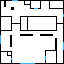
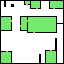
Add greater preset control with wildcard tiles and pattern matching with propagation in output initialization stage. URGENT: Still having issues with even super small propagation (4x4git statuswhen fixing tiles.

diff --git a/world_gen.py b/world_gen.py
@@ -4,6 +4,7 @@ import random
 import copy
 import math
 
+
 class WorldGen:
 
     def __init__(self):
@@ -69,7 +70,7 @@ class WorldGen:
                            for x in mat_in])
         for i in range(len(mat_in)):
             for j in range(len(mat_in[i])):
-                if(mat_in[i][j] == 'D' or mat_in[i][j]=='X'):
+                if(mat_in[i][j] == 'D' or mat_in[i][j] == 'X'):
                     mat_in[i][j] = '•'
 
         return mat_in
@@ -101,16 +102,17 @@ class WorldGen:
                 self.patches[self.patch_index[j]] = j
                 self.freqs[self.patch_index[j]] += 1
 
-        # attempt at reducing the impact of basic patches that repeat often in favor of more complex ones
+        # potential attempt at reducing the impact of basic patches that repeat often in favor of more complex ones
         def patch_entropy(n):
             count = {}
             for i in self.patches[n]:
-                count[i] = count.setdefault(i,0)+1
+                count[i] = count.setdefault(i, 0)+1
             prod = 1
             for i in count.keys():
                 prod *= count[i]
             return math.log2(prod)
-        self.freqs = [x*patch_entropy(i) for i,x in enumerate(self.freqs)]
+        # self.freqs = [x*patch_entropy(i) for i, x in enumerate(self.freqs)]
+        # Activate by uncommenting ^^^
 
         self.logged_freqs = np.log2(1/np.array(self.freqs))
 
@@ -133,50 +135,49 @@ class WorldGen:
                     self.adjac[indexed_input[i][j]][3].add(
                         indexed_input[i][j-1])
 
-    def init_output(self, rows, cols, init_world=None):
+    def init_output(self, rows, cols, init_world=None, free_value_index=None):
+
         self.domains = [[[True for _ in self.patches]
-                    for _ in range(cols)] for _ in range(rows)]
+                         for _ in range(cols)] for _ in range(rows)]
 
         self.adjac_counter = [[[[len(a) for a in self.adjac[p]] for p in range(
             len(self.patches))] for _ in range(cols)] for _ in range(rows)]
-        
-        self.entropies = [[(-1, False) for _ in range(cols)] for _ in range(rows)]
+
+        self.entropies = [[(-1, False) for _ in range(cols)]
+                          for _ in range(rows)]
 
         if(init_world is not None):
             patched_init_world = []
-            for i in range(min(len(init_world)-2,rows-2)):
+            for i in range(min(len(init_world)-2, rows-2)):
                 patched_init_world.append([])
-                for j in range(min(len(init_world[i])-2,cols-2)):
-                    patched_init_world[i].append(tuple(init_world[i:i+3, j:j+3].flatten()))
+                for j in range(min(len(init_world[i])-2, cols-2)):
+                    patched_init_world[i].append(
+                        tuple(init_world[i:i+3, j:j+3].flatten()))
 
             for i in range(len(patched_init_world)):
                 for j in range(len(patched_init_world[i])):
-                    if(init_world[i][j] != 1):
-                        preset_patch = self.patch_index[patched_init_world[i][j]]
-                        domain_delta = self.domains[i][j] ^ np.where(np.arange(len(self.patches)) == preset_patch, True, False)  # ^ XOR
-                        
-                        #TODO: use pattern matching between fixed tiles and possible patches they could be in, improving compatibility with generated surroundings
+                    if(init_world[i][j] != free_value_index):
+
+                        # FAST, UGLY
+                        # preset_patch = self.patch_index[patched_init_world[i][j]]
+                        # domain_delta = self.domains[i][j] ^ np.where(
+                        #     np.arange(len(self.patches)) == preset_patch, True, False)  # ^ XOR
+
+                        # FAILS ON FIRST LOOP
                         # preset_patches = [True if p[0]==init_world[i][j] else False for p in self.patches]
                         # domain_delta = self.domains[i][j] ^ np.array(preset_patches)  # ^ XOR
-                        
-                        self.propagate((i,j),domain_delta)
 
+                        # TODO: use pattern matching between fixed tiles and possible patches they could be in, improving compatibility with generated surroundings
+                        def patch_match(p):
+                            for k in range(len(p)):
+                                if(patched_init_world[i][j][k] != free_value_index and p[k] != patched_init_world[i][j][k]):
+                                    return False
+                            return True
+                        preset_patches = [patch_match(p) for p in self.patches]
+                        domain_delta = self.domains[i][j] ^ np.array(preset_patches)  # ^ XOR
+                        # print(patched_init_world[i][j], [p for n,p in enumerate(self.patches) if preset_patches[n]])
 
-    def is_collapsed(self):
-        for i in self.domains:
-            for j in i:
-                # at least one uncollapsed cell
-                if(sum(j) > 1):
-                    return False
-        return True
-
-    def is_complete(self):
-        for i in self.domains:
-            for j in i:
-                # at least one uncollapsed cell
-                if(sum(j) != 1):
-                    return False
-        return True
+                        self.propagate((i, j), domain_delta)
 
     def observe(self):
         min_entropy = float("inf")
@@ -187,7 +188,7 @@ class WorldGen:
                 supersum = sum(self.domains[i][j])
                 if(supersum == 0):
                     # no patch options exist for this cell, so quit
-                    print(i,j)
+                    print(i, j)
                     return None
                 if(supersum == 1):
                     # already collapsed
@@ -203,7 +204,8 @@ class WorldGen:
         # randomly chose a candidate and observe (collapse wave function) on them
         # with a random choice of possible patches using their probability in the input
         cand_pos = random.choice(candidates)
-        patch_probs = np.array(self.domains[cand_pos[0]][cand_pos[1]])*self.freqs
+        patch_probs = np.array(
+            self.domains[cand_pos[0]][cand_pos[1]])*self.freqs
         patch_probs = patch_probs / np.sum(patch_probs)
         chosen_patch = np.random.choice(
             range(len(self.patches)), p=patch_probs)
@@ -220,12 +222,12 @@ class WorldGen:
         # (pos, tile to remove from domain)
         # print(entropies)
         stack = []
+        # for each True in the domain_delta add the needed remove_tile_possibility arguments as a tuple in stack
         for i in range(len(domain_delta)):
             if(domain_delta[i]):
                 stack.append((start_pos, i))
         for (x, y), t in stack:
             self.domains[x][y][t] = False
-        # for each 1 in the domain_delta add the needed remove_tile_possibility arguments as a tuple in stack
         while(len(stack) > 0):
             # perform tile removal, updating entropies that need recalculation, changed domains and appending new removals stack through reference
             # print(stack)
@@ -233,11 +235,10 @@ class WorldGen:
             self.remove_tile_possibility(stack, *cell_tile)
 
         # DONE; TODO: Initialize array, where we store the count of the support, i.e. for a given cell/tile/side, we count how many tiles in the domain on adjacent cell can be placed next to the tile in question.
-        # TODO: go through adjacent cell's tile values that we know a removed tile on the current cell can be adjacent to and subtract 1. if any of the neighbor tile values are 0, we know this tile has no possible neighbors and can be removed from domain
+        #       go through adjacent cell's tile values that we know a removed tile on the current cell can be adjacent to and subtract 1. if any of the neighbor tile values are 0, we know this tile has no possible neighbors and can be removed from domain
         # print(domains)
 
     def remove_tile_possibility(self, stack, pos, tile_ind):
-        # remove tile_ind from domain at pos
         # iterate through all 4 directions of tile,
         #       subtract 1 from adjac_counter of all possible tiles in neighbor's domain common to adjac,
         #       if 0, add neighbor (pos,tile) to stack
@@ -257,6 +258,7 @@ class WorldGen:
                     self.adjac_counter[i][j][t][(d+2) % 4] -= 1
                     if(self.adjac_counter[i][j][t][(d+2) % 4] == 0):
                         self.domains[i][j][t] = False
+                        # assert sum(self.domains[i][j])>=1, f"{i,j,t, self.patches[t], stack}"
                         stack.append(((i, j), t))
                         self.entropies[i][j] = (-1, False)
 
@@ -265,20 +267,35 @@ class WorldGen:
         entropy = sum(np.array(superpos)*self.freqs*self.logged_freqs)
         return entropy
 
+    def is_collapsed(self):
+        for i in self.domains:
+            for j in i:
+                # at least one uncollapsed cell
+                if(sum(j) > 1):
+                    return False
+        return True
+
+    def is_complete(self):
+        for i in self.domains:
+            for j in i:
+                # at least one uncollapsed cell
+                if(sum(j) != 1):
+                    return False
+        return True
+
     def one_index(self, arr):
         # for i in range(len(arr)):
         #     if(arr[i]==1):
         #         return i
         return int(np.nonzero(arr)[0])
 
-    def generate_world(self, rows, cols, init_world=None):
+    def generate_world(self, rows, cols, init_world=None, free_value_index=None):
         print("PROCESS")
 
-        self.init_output(rows, cols,init_world)
+        self.init_output(rows, cols, init_world, free_value_index)
         temp_doms = copy.deepcopy(self.domains)
         temp_adjcount = copy.deepcopy(self.adjac_counter)
         temp_ents = copy.deepcopy(self.entropies)
-
 
         c = 0
         while(not self.is_complete()):

diff --git a/output.py b/output.py
@@ -9,15 +9,27 @@ width = 50
 world = world_gen.WorldGen()
 
 image = cv2.imread("floorplan_walls.png")
+preset = cv2.imread("floorplan_borders32.png")
+
 colors = set()
 for i in image:
+    for j in i:
+        colors.add(tuple(j))
+for i in preset:
     for j in i:
         colors.add(tuple(j))
 colors = list(colors)
 print(colors)
 image = np.array([[colors.index(tuple(j)) for j in i] for i in image])
+preset = np.array([[colors.index(tuple(j)) for j in i] for i in preset])
 mat_in = image
 
+
+# wall: (0, 0, 0) -> black
+# ground: (255, 255, 255) -> white
+# free-tile: (255, 112, 255) -> pink
+# door: (39,115,176) -> brown
+# window: (235, 173, 64) -> blue
 
 # Add horizontal, vertical, diagonal flips to input matrix
 mat_horiz = mat_in[::-1]
@@ -39,11 +51,10 @@ world.process_input(mat_90)
 world.process_input(mat_180)
 world.process_input(mat_270)
 
-preset = np.array([[colors.index(tuple(j)) for j in i] for i in cv2.imread("floorplan_borders32.png")])
+system = world.generate_world(4, 4, init_world=preset, free_value_index=colors.index((255,112,255)))
 
-# world.process_input(preset)
-# system = world.generate_world(64, 64, preset)
-system = world.generate_world(64, 64, preset)
+#DONE; TODO: CURRENTLY THE BLANK TILE COLOR IS HARD CODED AS COLOR 1 !!!! FIX
+# system = world.generate_world(32,32, init_world=preset, free_value_index=colors.index((255,112,255)))
 
 cv2.namedWindow('image', cv2.WINDOW_GUI_NORMAL)
 
@@ -52,7 +63,6 @@ def display(mat):
     #imshow is 0.0-1.0 for floats or 0-255 for ints
     cv2.imshow("image",mat)
     cv2.waitKey()
-
 
 display(convert(mat_in,colors))
 # display(convert(mat_horiz,colors))
